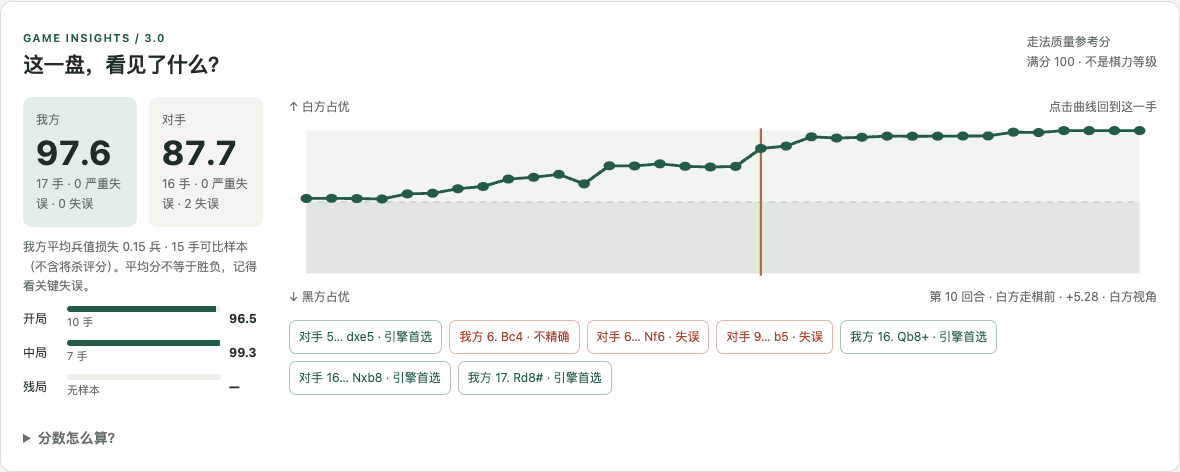
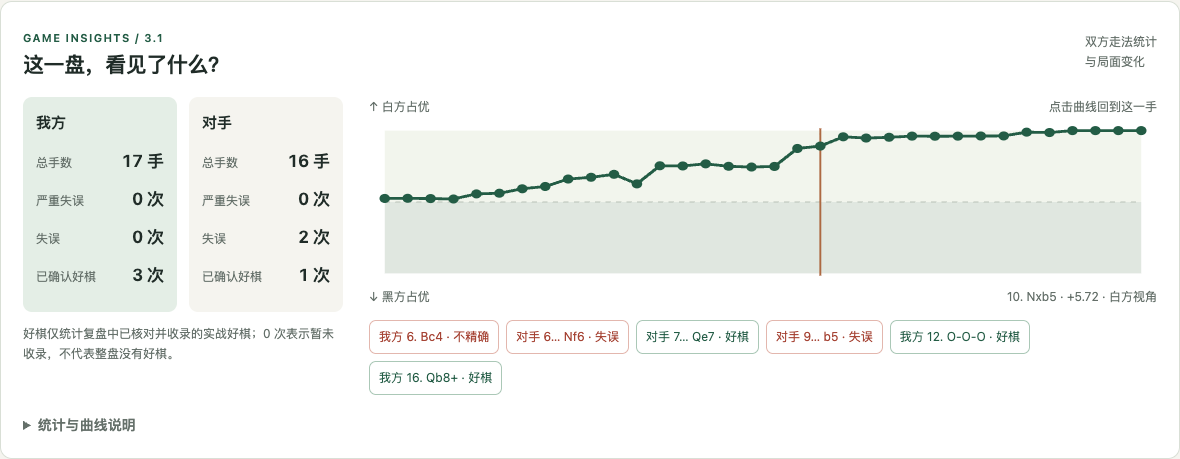
Release 3.1: replace accuracy ratings with verified move counts

diff --git a/plugins/chess-review/skills/chess-review-open/assets/insights.css b/plugins/chess-review/skills/chess-review-open/assets/insights.css
@@ -1,2 +1,2 @@
-.insights{margin:0 0 28px;border:1px solid var(--line);border-radius:12px;background:white;padding:22px}.insights-head{display:flex;align-items:center;justify-content:space-between;gap:16px}.insights h2{margin:0;font-size:21px}.insights .eyebrow{font-size:11px;letter-spacing:.12em;color:var(--green);font-weight:650}.insights small,.insights-note{font-size:12px;color:var(--muted)}.insight-grid{display:grid;grid-template-columns:240px minmax(0,1fr);gap:26px;margin-top:18px}.score-pair{display:grid;grid-template-columns:1fr 1fr;gap:12px}.score-card{background:var(--paper);border-radius:9px;padding:13px}.score-card.ours{background:var(--green-soft)}.score-card span{display:block;font-size:12px;color:var(--muted)}.score-card strong{font-size:34px;line-height:1.3;font-variant-numeric:tabular-nums}.score-card small{display:block}.score-caption{font-size:12px;color:var(--muted);margin:10px 0}.phase-row{display:grid;grid-template-columns:36px minmax(0,1fr) 34px;gap:8px;align-items:center;font-size:12px;margin:8px 0}.phase-track{height:6px;background:#edf0e9;border-radius:4px;overflow:hidden}.phase-track i{display:block;background:var(--green);height:100%}.phase-count{font-size:11px;color:var(--muted)}#eval-chart{width:100%;height:170px;display:block;cursor:crosshair;overflow:visible}.graph-legend{display:flex;justify-content:space-between;font-size:12px;color:var(--muted)}.insight-events{display:flex;gap:7px;flex-wrap:wrap;margin-top:13px}.insight-events button{font-size:12px;padding:5px 9px;min-height:34px}.insight-events .bad{border-color:#e3b7ae;color:var(--red)}.insight-events .good{border-color:#abc8b7;color:var(--green)}.board-with-eval{display:grid;grid-template-columns:18px minmax(0,1fr);gap:9px}.eval-rail{background:#26312c;display:flex;flex-direction:column;overflow:hidden;border:1px solid #69766b;border-radius:4px}.eval-rail.flipped{flex-direction:column-reverse}.eval-rail.unknown{opacity:.35}.eval-black{background:#26312c;transition:height .2s}.eval-white{background:#fffdf5;transition:height .2s}.eval-label{display:flex;justify-content:space-between;gap:10px;align-items:center;font-size:13px;margin:0 0 8px;color:var(--muted)}.eval-label strong{color:var(--ink);font-variant-numeric:tabular-nums}.risk-line{padding:10px 12px;border:1px solid var(--line);background:#fff;border-radius:7px;margin:12px 0 0;font-size:13px}.risk-line p{margin:0 0 8px}.risk-line button{font-size:12px;min-height:32px;padding:4px 8px}.lesson-filter{display:flex;gap:5px;padding:12px 18px 0;flex-wrap:wrap}.lesson-filter button{font-size:12px;padding:4px 9px;min-height:31px}.forecast-panel{padding:20px}.forecast-panel p{color:var(--muted);font-size:14px}.forecast-panel .line-moves button{white-space:normal;text-align:left}.opening-learn{margin:26px 0 0;border:1px solid var(--line);border-radius:10px;background:#fff;padding:16px 20px}.opening-learn summary{font-size:16px}.opening-learn p{font-size:14px;color:var(--muted)}.opening-learn .opening-line{font-family:ui-monospace,monospace;font-size:13px;color:var(--ink);overflow-wrap:anywhere}.opening-actions{display:flex;gap:16px;align-items:center;flex-wrap:wrap}.opening-actions button,.opening-actions a{font-size:13px}.insights details{font-size:12px;color:var(--muted)}.insights details p{margin:8px 0}.insights a{overflow-wrap:anywhere}
-@media(max-width:720px){.insights{padding:16px}.insight-grid{grid-template-columns:1fr;gap:16px}.insights-head{align-items:start}.insights h2{font-size:19px}.score-card strong{font-size:29px}.board-with-eval{grid-template-columns:13px minmax(0,1fr);gap:6px}.phase-row{grid-template-columns:36px minmax(0,1fr) 34px}.insights-head small{max-width:90px;text-align:right}.eval-label{font-size:12px}}
+.insights{margin:0 0 28px;border:1px solid var(--line);border-radius:12px;background:white;padding:22px}.insights-head{display:flex;align-items:center;justify-content:space-between;gap:16px}.insights h2{margin:0;font-size:21px}.insights .eyebrow{font-size:11px;letter-spacing:.12em;color:var(--green);font-weight:650}.insights small,.insights-note{font-size:12px;color:var(--muted)}.insight-grid{display:grid;grid-template-columns:320px minmax(0,1fr);gap:26px;margin-top:18px}.stats-pair{display:grid;grid-template-columns:1fr 1fr;gap:12px}.stats-card{background:var(--paper);border-radius:9px;padding:13px;min-width:0}.stats-card.ours{background:var(--green-soft)}.stats-card h3{font-size:15px;margin:0 0 12px;color:var(--ink)}.stats-card dl{margin:0}.stat-row{display:flex;justify-content:space-between;align-items:baseline;gap:6px;margin:10px 0}.stat-row dt{font-size:12px;color:var(--muted)}.stat-row dd{margin:0;font-size:17px;font-weight:650;white-space:nowrap;font-variant-numeric:tabular-nums}.stats-caption{font-size:12px;color:var(--muted);margin:12px 0 0;line-height:1.65}#eval-chart{width:100%;height:170px;display:block;cursor:crosshair;overflow:visible}.graph-legend{display:flex;justify-content:space-between;font-size:12px;color:var(--muted)}.insight-events{display:flex;gap:7px;flex-wrap:wrap;margin-top:13px}.insight-events button{font-size:12px;padding:5px 9px;min-height:34px}.insight-events .bad{border-color:#e3b7ae;color:var(--red)}.insight-events .good{border-color:#abc8b7;color:var(--green)}.board-with-eval{display:grid;grid-template-columns:18px minmax(0,1fr);gap:9px}.eval-rail{background:#26312c;display:flex;flex-direction:column;overflow:hidden;border:1px solid #69766b;border-radius:4px}.eval-rail.flipped{flex-direction:column-reverse}.eval-rail.unknown{opacity:.35}.eval-black{background:#26312c;transition:height .2s}.eval-white{background:#fffdf5;transition:height .2s}.eval-label{display:flex;justify-content:space-between;gap:10px;align-items:center;font-size:13px;margin:0 0 8px;color:var(--muted)}.eval-label strong{color:var(--ink);font-variant-numeric:tabular-nums}.risk-line{padding:10px 12px;border:1px solid var(--line);background:#fff;border-radius:7px;margin:12px 0 0;font-size:13px}.risk-line p{margin:0 0 8px}.risk-line button{font-size:12px;min-height:32px;padding:4px 8px}.lesson-filter{display:flex;gap:5px;padding:12px 18px 0;flex-wrap:wrap}.lesson-filter button{font-size:12px;padding:4px 9px;min-height:31px}.forecast-panel{padding:20px}.forecast-panel p{color:var(--muted);font-size:14px}.forecast-panel .line-moves button{white-space:normal;text-align:left}.opening-learn{margin:26px 0 0;border:1px solid var(--line);border-radius:10px;background:#fff;padding:16px 20px}.opening-learn summary{font-size:16px}.opening-learn p{font-size:14px;color:var(--muted)}.opening-learn .opening-line{font-family:ui-monospace,monospace;font-size:13px;color:var(--ink);overflow-wrap:anywhere}.opening-actions{display:flex;gap:16px;align-items:center;flex-wrap:wrap}.opening-actions button,.opening-actions a{font-size:13px}.insights details{font-size:12px;color:var(--muted)}.insights details p{margin:8px 0}.insights a{overflow-wrap:anywhere}
+@media(max-width:720px){.insights{padding:16px}.insight-grid{grid-template-columns:1fr;gap:16px}.insights-head{align-items:start}.insights h2{font-size:19px}.stats-card{padding:12px}.board-with-eval{grid-template-columns:13px minmax(0,1fr);gap:6px}.insights-head small{max-width:90px;text-align:right}.eval-label{font-size:12px}}

diff --git a/plugins/chess-review/skills/chess-review-open/assets/insights.js b/plugins/chess-review/skills/chess-review-open/assets/insights.js
@@ -23,16 +23,20 @@
   for(const button of document.querySelectorAll('[data-actor-filter]'))button.onclick=()=>{lessonFilter=button.dataset.actorFilter;document.querySelectorAll('[data-actor-filter]').forEach(b=>b.setAttribute('aria-pressed',String(b===button)));document.querySelectorAll('#lesson-list button').forEach((b,i)=>b.hidden=lessonFilter!=='all'&&DATA.lessons[i].actor!==lessonFilter);const i=DATA.lessons.findIndex(l=>lessonFilter==='all'||l.actor===lessonFilter);if(i>=0)chooseLesson(i)};
   for(const b of document.querySelectorAll('[data-actor-filter]'))if(b.dataset.actorFilter!=='all')b.disabled=!DATA.lessons.some(l=>l.actor===b.dataset.actorFilter);
   if(analytics){
-   $('insights').hidden=false;const ours=analytics.sides[DATA.meta.user_color],other=analytics.sides[DATA.meta.user_color==='white'?'black':'white'];
-   $('score-user').textContent=ours.score??'—';$('score-opponent').textContent=other.score??'—';$('score-user-n').textContent=ours.moves+' 手 · '+ours.blunders+' 严重失误 · '+ours.mistakes+' 失误';$('score-opponent-n').textContent=other.moves+' 手 · '+other.blunders+' 严重失误 · '+other.mistakes+' 失误';
-   $('score-caption').textContent='我方平均兵值损失 '+(ours.acpl===null?'无样本':(ours.acpl/100).toFixed(2)+' 兵')+' · '+ours.cp_samples+' 手可比样本（不含将杀评分）。平均分不等于胜负，记得看关键失误。';
-   const phases=analytics.phases[DATA.meta.user_color];for(const [key,name]of Object.entries({opening:'开局',middlegame:'中局',endgame:'残局'})){const v=phases[key],row=document.createElement('div');row.className='phase-row';row.innerHTML='<span>'+name+'</span><div><div class="phase-track"><i style="width:'+(v.score??0)+'%"></i></div><span class="phase-count">'+(v.moves?v.moves+' 手':'无样本')+'</span></div><strong>'+(v.score??'—')+'</strong>';$('phase-scores').append(row)}
+   $('insights').hidden=false;
+   for(const [id,side] of [['stats-user',DATA.meta.user_color],['stats-opponent',DATA.meta.user_color==='white'?'black':'white']]){
+    const stats=analytics.sides[side],good=new Set(DATA.lessons.filter(l=>l.positive&&l.color===side).map(l=>l.ply)).size;
+    const list=$(id);list.replaceChildren();
+    for(const [key,label,value,unit] of [['moves','总手数',stats.moves,'手'],['blunders','严重失误',stats.blunders,'次'],['mistakes','失误',stats.mistakes,'次'],['good','已确认好棋',good,'次']]){
+     const row=document.createElement('div'),term=document.createElement('dt'),count=document.createElement('dd');row.className='stat-row';term.textContent=label;count.dataset.stat=key;count.textContent=value+' '+unit;row.append(term,count);list.append(row);
+    }
+   }
    const points=analytics.positions.map((e,i)=>[12+576*i/(analytics.positions.length-1),12+126*(1-e.advantage/100)]);
    const svg=$('eval-chart');svg.innerHTML='<rect x="12" y="12" width="576" height="63" fill="#f2f5ed"/><rect x="12" y="75" width="576" height="63" fill="#e0e7e0"/><path d="M12 75H588" stroke="#b7c1b6" stroke-dasharray="4 4"/><path d="'+points.map(([x,y],i)=>(i?'L':'M')+x.toFixed(2)+' '+y.toFixed(2)).join(' ')+'" fill="none" stroke="#235c45" stroke-width="2.5"/><line id="chart-marker" x1="12" x2="12" y1="10" y2="140" stroke="#ad6942" stroke-width="1.5"/>';
    points.forEach(([x,y],i)=>{const dot=document.createElementNS('http://www.w3.org/2000/svg','circle');dot.setAttribute('cx',x);dot.setAttribute('cy',y);dot.setAttribute('r','4');dot.setAttribute('fill','#235c45');dot.setAttribute('tabindex','0');dot.setAttribute('role','button');const name=(DATA.states[i].san||'起始局面')+' · '+evalText(analytics.positions[i]);dot.setAttribute('aria-label',name);const title=document.createElementNS('http://www.w3.org/2000/svg','title');title.textContent=name;dot.append(title);dot.onclick=e=>{e.stopPropagation();jumpToPly(i)};dot.onkeydown=e=>{if(e.key==='Enter'||e.key===' '){e.preventDefault();jumpToPly(i)}};svg.append(dot)});
    svg.onclick=e=>{const rect=svg.getBoundingClientRect();jumpToPly(Math.max(0,Math.min(points.length-1,Math.round(((e.clientX-rect.left)/rect.width*600-12)/576*(points.length-1)))))};
-   const events=[];for(const side of [DATA.meta.user_color,DATA.meta.user_color==='white'?'black':'white']){const rows=analytics.rows.filter(r=>r.side===side);events.push(...rows.filter(r=>r.classification!=='steady').sort((a,b)=>b.loss-a.loss).slice(0,2));events.push(...rows.filter(r=>r.preferred&&(r.check||r.capture)&&r.classification==='steady').slice(-2))}
-   events.sort((a,b)=>a.ply-b.ply);for(const r of events){const b=document.createElement('button');const bad=r.classification!=='steady';b.className=bad?'bad':'good';b.textContent=(r.side===DATA.meta.user_color?'我方 ':'对手 ')+r.move+' · '+(bad?{blunder:'严重失误',mistake:'失误',inaccuracy:'不精确'}[r.classification]:'引擎首选');b.title='参考分 '+r.quality.toFixed(1)+'；点击回放此步';b.onclick=()=>jumpToPly(r.ply+1);$('insight-events').append(b)}
+   const events=[];for(const side of [DATA.meta.user_color,DATA.meta.user_color==='white'?'black':'white']){const rows=analytics.rows.filter(r=>r.side===side);events.push(...rows.filter(r=>r.classification!=='steady').sort((a,b)=>b.loss-a.loss).slice(0,2));events.push(...rows.filter(r=>r.classification==='steady'&&DATA.lessons.some(l=>l.positive&&l.color===side&&l.ply===r.ply)).slice(-2))}
+   events.sort((a,b)=>a.ply-b.ply);for(const r of events){const b=document.createElement('button');const bad=r.classification!=='steady';b.className=bad?'bad':'good';b.textContent=(r.side===DATA.meta.user_color?'我方 ':'对手 ')+r.move+' · '+(bad?{blunder:'严重失误',mistake:'失误',inaccuracy:'不精确'}[r.classification]:'好棋');b.title='点击回放 '+r.move;b.onclick=()=>jumpToPly(r.ply+1);$('insight-events').append(b)}
    $('metric-engine').textContent=(analytics.engine.name||'Stockfish')+' · 每局面 '+analytics.screen_seconds+' 秒初筛，关键步加深 '+analytics.refine_seconds+' 秒';
   }else{$('insights').hidden=false;$('insight-grid').hidden=true;$('insight-empty').hidden=false;$('metric-method').hidden=true}
   if(DATA.opening){const o=DATA.opening;$('opening-learn').hidden=false;$('opening-name').textContent=o.eco+' · '+o.name;$('opening-line').textContent=o.line;$('opening-match').textContent='本盘在 '+(DATA.states[o.ply].san||'对应局面')+' 后匹配到命名开局局面（包含转置识别）。这不表示后续每一步都符合理论。';$('opening-notes').textContent=o.notes||'先回到匹配局面，观察中心兵、轻子发展和王的安全，再看开局资料。';$('opening-jump').onclick=()=>{jumpToPly(o.ply);$('board').scrollIntoView({block:'center',behavior:'smooth'})};$('opening-resource').href=o.resource;$('opening-source').href=o.source;

diff --git a/plugins/chess-review/skills/chess-review-open/assets/review-template.html b/plugins/chess-review/skills/chess-review-open/assets/review-template.html
@@ -23,11 +23,11 @@
 </header>
 <main>
  <section id="insights" class="insights" aria-label="棋局数据总览" hidden>
-  <div class="insights-head"><div><span class="eyebrow">GAME INSIGHTS / 3.0</span><h2>这一盘，看见了什么？</h2></div><small>走法质量参考分<br>满分 100 · 不是棋力等级</small></div>
-  <p id="insight-empty" class="insights-note" hidden>这盘尚未附带匹配的引擎分析，暂不显示分数和曲线。原有教学与回放仍可使用。</p>
-  <div id="insight-grid" class="insight-grid"><div><div class="score-pair"><div class="score-card ours"><span>我方</span><strong id="score-user"></strong><small id="score-user-n"></small></div><div class="score-card"><span>对手</span><strong id="score-opponent"></strong><small id="score-opponent-n"></small></div></div><p id="score-caption" class="score-caption"></p><div id="phase-scores" aria-label="我方分阶段评分"></div></div>
+  <div class="insights-head"><div><span class="eyebrow">GAME INSIGHTS / 3.1</span><h2>这一盘，看见了什么？</h2></div><small>双方走法统计<br>与局面变化</small></div>
+  <p id="insight-empty" class="insights-note" hidden>这盘尚未附带匹配的引擎分析，暂不显示完整走法统计和曲线。原有教学与回放仍可使用。</p>
+  <div id="insight-grid" class="insight-grid"><div><div class="stats-pair"><section class="stats-card ours" aria-label="我方走法统计"><h3>我方</h3><dl id="stats-user"></dl></section><section class="stats-card" aria-label="对手走法统计"><h3>对手</h3><dl id="stats-opponent"></dl></section></div><p class="stats-caption">好棋仅统计复盘中已核对并收录的实战好棋；0 次表示暂未收录，不代表整盘没有好棋。</p></div>
   <div><div class="graph-legend"><span>↑ 白方占优</span><span>点击曲线回到这一手</span></div><svg id="eval-chart" viewBox="0 0 600 150" preserveAspectRatio="none" role="group" aria-label="双方局面评估曲线"></svg><div class="graph-legend"><span>↓ 黑方占优</span><span id="chart-current"></span></div><nav id="insight-events" class="insight-events" aria-label="双方关键事件"></nav></div></div>
-  <details id="metric-method"><summary>分数怎么算？</summary><p>单步先把白方兵值评估 cp 映射为指数：100 / (1 + exp(−0.00368208 × cp))；再计算走棋方前后指数下降 Δ，参考分为 clamp(103.1668 × exp(−0.04354 × Δ) − 3.1669, 0, 100)。下降为零计 100。</p><p>总分和各阶段分数取相应走法的算术平均，包含好棋与失误；单个大失误可能被平均数掩盖。它不是 Chess.com / Lichess 的整局准确率，也不是你真实获胜的概率。参考 <a href="https://lichess.org/page/accuracy" target="_blank" rel="noopener noreferrer">Lichess 单步公式</a>，整局汇总由本插件定义。</p><p>Δ ≥ 20 / 10 / 5 分别标记严重失误 / 失误 / 不精确（本插件阈值）。将杀指数按获胜方取 100、失败方取 0；规则判和取 50。平均兵值损失只统计前后都有 cp 的走法，不把将杀当成巨大兵值。</p><p>阶段为启发式分组：双方非兵子力合计 ≤ 13，或无后且 ≤ 26，计为残局；其余前 10 回合计开局，之后计中局（马象 3、车 5、后 9）。无样本不打分。</p><p id="metric-engine"></p></details>
+  <details id="metric-method"><summary>统计与曲线说明</summary><p>总手数按双方各自实际落子次数计算。严重失误与失误根据走法前后的引擎局面变化分别统计，两类不重复计数；它们是本复盘的分类，不等同于其他平台的分类。大幅占优或落后时，自动分类可能漏掉仍有教学价值的失误，请结合关键复盘查看。</p><p>好棋只计入已核对、明确标记为好棋的实战着法，同一步不重复计数。它不是整盘所有合理走法的数量，也不把普通的引擎首选自动算作好棋。</p><p>曲线和棋盘旁的优劣势条表示白方与黑方的局面变化，不是棋手的准确率、棋力或实际获胜概率。示范分支未经独立分析时显示「未分析」。</p><p id="metric-engine"></p></details>
  </section>
  <div class="workspace">
   <section class="board-column" aria-label="交互棋盘">

diff --git a/plugins/chess-review/skills/chess-review-open/scripts/review_analytics.py b/plugins/chess-review/skills/chess-review-open/scripts/review_analytics.py
@@ -6,9 +6,6 @@ import math
 from pathlib import Path
 from chess_common import chess, label, snapshot
 
-FORMULA_URL = 'https://lichess.org/page/accuracy'
-
-
 def white_evaluation(raw, board, perspective):
     if raw.get('fen') != board.fen():
         raise ValueError('Analysis FEN does not match the game position')
@@ -57,7 +54,7 @@ def phase(board):
 
 def summarize(rows):
     cp_rows = [r['cp_loss'] for r in rows if r['cp_loss'] is not None]
-    return {'moves':len(rows), 'score':round(sum(r['quality'] for r in rows)/len(rows),1) if rows else None,
+    return {'moves':len(rows),
             'acpl':round(sum(cp_rows)/len(cp_rows),1) if cp_rows else None,
             'cp_samples':len(cp_rows), 'blunders':sum(r['classification']=='blunder' for r in rows),
             'mistakes':sum(r['classification']=='mistake' for r in rows),
@@ -91,12 +88,11 @@ def build_analytics(analysis, boards, moves, pgn):
         before, after = positions[i:i+2]
         sign = 1 if boards[i].turn else -1
         loss = max(0., sign*(before['advantage']-after['advantage']))
-        quality = 100. if loss == 0 else max(0.,min(100.,103.1668*math.exp(-.04354*loss)-3.1669))
         cp_loss = max(0.,sign*(before['cp']-after['cp'])) if before['cp'] is not None and after['cp'] is not None else None
         preferred = len(before['forecast'])>1 and before['forecast'][1]['from'] == chess.square_name(move.from_square) and before['forecast'][1]['to'] == chess.square_name(move.to_square) and before['forecast'][1]['fen'] == boards[i+1].fen()
         kind = 'blunder' if loss >= 20 else 'mistake' if loss >= 10 else 'inaccuracy' if loss >= 5 else 'steady'
         rows.append({'ply':i,'move':label(boards[i],move),'side':'white' if boards[i].turn else 'black',
-                     'phase':phase(boards[i]),'loss':round(loss,2),'quality':round(quality,2),
+                     'phase':phase(boards[i]),'loss':round(loss,2),
                      'cp_loss':cp_loss,'classification':kind,'preferred':preferred,
                      'check':boards[i+1].is_check(),'capture':boards[i].is_capture(move)})
     return {'version':1,'engine':analysis.get('engine',{}),'screen_seconds':analysis.get('screen_seconds'),
@@ -104,7 +100,7 @@ def build_analytics(analysis, boards, moves, pgn):
             'sides':{side:summarize([r for r in rows if r['side']==side]) for side in ('white','black')},
             'phases':{side:{key:summarize([r for r in rows if r['side']==side and r['phase']==key])
                             for key in ('opening','middlegame','endgame')} for side in ('white','black')},
-            'formula_url':FORMULA_URL}
+            }
 
 
 def identify_opening(boards):

diff --git a/tests/test_review_analytics.py b/tests/test_review_analytics.py
@@ -28,8 +28,12 @@ class AnalyticsTests(unittest.TestCase):
   b=build_analytics(self.data('black'),self.boards,self.moves,self.text)
   self.assertEqual(a['positions'],b['positions']);self.assertEqual(a['sides'],b['sides'])
   self.assertEqual(a['positions'][-1]['terminal'],'white');self.assertEqual(a['positions'][-1]['advantage'],100)
-  self.assertEqual(a['phases']['white']['endgame']['score'],None)
-  self.assertLess(a['sides']['black']['score'],a['sides']['white']['score'])
+  self.assertEqual(a['phases']['white']['endgame']['moves'],0)
+  self.assertEqual(a['sides']['white']['moves'],4)
+  self.assertEqual(a['sides']['black']['moves'],3)
+  self.assertEqual(a['sides']['white']['mistakes'],0)
+  self.assertEqual(a['sides']['black']['mistakes'],1)
+  self.assertEqual(a['sides']['black']['inaccuracies'],2)
   self.assertLess(a['sides']['white']['cp_samples'],a['sides']['white']['moves'])
  def test_reject_wrong_game_fen_order_and_illegal_pv(self):
   for change in ('hash','fen','order','pv','nan'):
@@ -47,7 +51,7 @@ class AnalyticsTests(unittest.TestCase):
   b=chess.Board('7k/5Q2/6K1/8/8/8/8/8 b - - 0 1')
   e=white_evaluation({'fen':b.fen(),'cp':0,'mate':None,'pv':[]},b,'white')
   self.assertEqual(e['terminal'],'draw');self.assertEqual(e['advantage'],50)
- def test_black_mate_and_score_bounds(self):
+ def test_black_mate_and_no_accuracy_scores(self):
   b=chess.Board()
   for san in ['f3','e5','g4','Qh4#']:b.push_san(san)
   self.assertTrue(b.is_checkmate())
@@ -55,7 +59,11 @@ class AnalyticsTests(unittest.TestCase):
    e=white_evaluation({'fen':b.fen(),'cp':None,'mate':0,'pv':[]},b,pov)
    self.assertEqual(e['terminal'],'black');self.assertEqual(e['advantage'],0)
   d=self.data();a=build_analytics(d,self.boards,self.moves,self.text)
-  self.assertTrue(all(0<=r['quality']<=100 for r in a['rows']))
+  self.assertTrue(all(0<=p['advantage']<=100 for p in a['positions']))
+  self.assertNotIn('formula_url',a)
+  self.assertTrue(all('quality' not in r for r in a['rows']))
+  self.assertTrue(all('score' not in s for s in a['sides'].values()))
+  self.assertTrue(all('score' not in s for phases in a['phases'].values() for s in phases.values()))
   self.assertTrue(all(r['cp_loss'] is None or r['cp_loss']>=0 for r in a['rows']))
  def test_opening_transposition_and_nonstandard_position(self):
   def boards(line):

diff --git a/plugins/chess-review/skills/chess-review-open/references/analytics.md b/plugins/chess-review/skills/chess-review-open/references/analytics.md
@@ -1,8 +1,8 @@
-# 3.0 数据、评分与威胁
+# 3.1 走法统计、局面评估与威胁
 
 ## 输入与教学
 
-运行 `analyze_game.py`，将其输出通过 `build_review.py --analysis analysis.json` 传入。完整棋谱指纹、每一步 UCI、轮次和局面 FEN 必须一致；分析会统一转换成白方视角。保留初筛与加深结果，以更深的结果生成每个局面的数据。无引擎时省略参数，保留教学界面但显示分数不可用，不让代理自行编造数字。
+运行 `analyze_game.py`，将其输出通过 `build_review.py --analysis analysis.json` 传入。完整棋谱指纹、每一步 UCI、轮次和局面 FEN 必须一致；分析会统一转换成白方视角。保留初筛与加深结果，以更深的结果生成每个局面的数据。无引擎时省略参数，保留教学界面，标明完整走法统计和曲线不可用，不编造数字。
 
 `review.json` 的关键步可写 `actor: "user"`（默认）或 `"opponent"`。每盘仍以用户视角确定我方/对手，构建器独立核对每条教学实际轮次。好棋标 `positive: true`。引擎首选不自动等于妙手；解释它解决了什么具体问题，只有明显损失且加深证据支持时才称严重失误。
 
@@ -10,17 +10,17 @@
 
 ## 数字的含义
 
-- 白方 cp 映射为指数 `100 / (1 + exp(-0.00368208 × cp))`。这是视觉映射，不是该使用者真实获胜概率。
-- 取走棋方指数下降量 Δ，负值截为零。单步参考分是 `clamp(103.1668 × exp(-0.04354 × Δ) - 3.1669, 0, 100)`，无下降记 100。
-- 双方总分和阶段分项都取各自走法的算术平均。公式参考 [Lichess 单步公式](https://lichess.org/page/accuracy)，**没有复制 Lichess 的整局汇总算法**，不命名为平台准确率或 Elo。
-- Δ ≥ 20 / 10 / 5 对应本插件的严重失误 / 失误 / 不精确阈值，不声称与其他平台一致。局面已经大幅占优或落后时，映射会饱和；不要据高分断言全盘没有严重问题。
-- 平均兵值损失只统计走法前后均有 cp 的样本。将殺单独显示 M 值，不把内部排序用的极值当成兵值。终局用棋规确认；将死指数由胜方确定，规则判和取 50。
-- 阶段按局面分组：双方非兵子力合计 ≤ 13，或无后且 ≤ 26 为残局；其他局面前 10 回合为开局，之后中局。马象 3、车 5、后 9。这是启发式规则；没有该阶段就显示无样本。
-- 平均数会掩盖决定性失误，所以始终同时展示事件、样本数和棋盘。数据受搜索时长、深度影响；不比较不同设置的微小分差。
+- 不计算或展示任何 accuracy 类总分、阶段分数、单步参考分及其提示。不要生成百分制走法评分。
+- 双方卡片只显示各自实际总手数、严重失误次数、失误次数和已确认好棋次数。
+- 严重失误与失误沿用引擎优势指数的下降阈值，分别为 Δ ≥ 20 与 10 ≤ Δ < 20；5 ≤ Δ < 10 为不精确，两类失误不重复计数。这是本工具分类，不声称与其他平台一致。
+- 好棋仅统计已核对并标记 `positive: true` 的实战 lesson，按真实执子方与 ply 去重。0 次表示暂未收录，不表示全盘没有好棋；普通引擎首选不能自动当作好棋。
+- 曲线仍把白方 cp 映射为指数 `100 / (1 + exp(-0.00368208 × cp))`。这是局面可视化，不是准确率或真实获胜概率。大幅优劣势时可能饱和，失误计数不能替代人工解释。
+- 将杀单独显示 M 值，不把内部排序极值当成兵值。规则判和取 50，将死指数由胜方确定。
+- 保留真实局面 FEN、深度、主变化、棋谱指纹与参考分析设置；不修改棋谱、教学分支或笔记键。
 
 ## 曲线、威胁与开局
 
-曲线点击后进入实际回放。优劣势条查询当前完整 FEN 对应的分析；翻转棋盘只改变位置，评分符号始终从白方看。未独立分析的试走或示范分支显示「未分析」，不沿用上一个局面的值。
+曲线点击后进入实际回放。优劣势条查询当前完整 FEN 对应的分析；翻转棋盘只改变位置，局面评估符号始终从白方看。未独立分析的试走或示范分支显示「未分析」，不沿用上一个局面的值。
 
 「引擎后续」展示最多 10 个半回合的合法主变化，单独标为引擎示范，标出将军、吃子、实际将死。M 信号是引擎搜索结果；只有走到棋规确认的终点才显示已将死。主变化中出现的将军不是必然威胁，不称作对方唯一回应。需要说明防守是否被迫时，另行检查所有合法应对或引擎候选。
 

diff --git a/README.md b/README.md
@@ -1,18 +1,19 @@
-# Chess Review Open 3.0 · 国际象棋互动复盘技能
+# Chess Review Open 3.1 · 国际象棋互动复盘技能
 
 **[English version →](https://github.com/kevina0817-ctrl/chess-review-skill-en)**
 
-## Purpose
+## 用途
 
 把你刚下完的一盘棋（PGN 棋谱）交给 AI 编程助手，几分钟后得到一个可以直接在浏览器里打开的**互动复盘网页**：哪一步走错了、当时应该怎么走、自己在棋盘上再试一次。中文讲解，离线可用，不需要注册任何网站。
 
 适用于 Codex、Claude Code、Kimi 等支持 Agent Skills（`SKILL.md`）格式的 AI 助手。
 
-## Changelog
+## 更新记录
 
 | 版本 | 新增功能 | 你可以做什么 |
 |---|---|---|
-| 3.0 更新 | 双方复盘与数据 | 对手好棋与失误、走法质量参考分、阶段分项、可点击的局面曲线与优劣势条。 |
+| 3.1 更新 | 双方走法统计 | 显示双方总手数、严重失误、失误和已确认好棋次数；移除全部准确率式总分、阶段分和单步评分，保留局面曲线与优劣势条。 |
+| 3.0 更新 | 双方复盘与数据 | 学习对手好棋与失误，点击局面曲线回放关键一步。 |
 | 3.0 更新 | 威胁推演 | 从关键局面回放引擎建议后续，理解将军、吃子和将杀。 |
 | 3.0 更新 | 开局识别与学习 | 根据本盘实际局面识别开局，显示名称与 ECO 编号，并提供开局学习链接。 |
 | 2.0 更新 | Chess.com 自动取谱 | 告诉助手用户名，以后直接说「复盘最新一盘」，无需复制粘贴或提供密码。其他平台仍支持 PGN。 |
@@ -43,13 +44,13 @@ Chess Review plugin 包含两个 skill：**`chess-review-open`** 负责单盘复
 
 先看一眼完整复盘：数据曲线、互动棋盘和关键步讲解，都在同一页里。
 
-![复盘整体展示：双方分数、局面曲线、棋盘和关键步讲解](docs/screenshots/review-overview.png)
+![复盘整体展示：双方走法统计、局面曲线、棋盘和关键步讲解](docs/screenshots/review-overview.png)
 
 *公开历史教学示例：1858 年歌剧院棋局。*
 
 ### 一、复盘
 
-看懂这盘棋，学习自己和对手的好棋与失误，并在棋盘上试走。结合分数、潜在威胁和开局计划，理解每个关键决定。
+看懂这盘棋，学习自己和对手的好棋与失误，并在棋盘上试走。结合走法统计、潜在威胁和开局计划，理解每个关键决定。
 
 <details>
 <summary><strong>展开复盘详情与截图</strong></summary>
@@ -57,13 +58,15 @@ Chess Review plugin 包含两个 skill：**`chess-review-open`** 负责单盘复
 点击下面的小节，查看具体功能。
 
 <details>
-<summary><strong>双方好坏棋、分数与局面曲线</strong></summary>
+<summary><strong>双方走法统计与局面曲线</strong></summary>
 
 **双方一起看，数据跟着棋盘走。** 查看我方和对手的关键步、好棋与失误；点击评估曲线跳回实战，优劣势条随当前局面变化。
 
-**分数有依据。** 展示双方走法质量参考分、我方开局 / 中局 / 残局分项及样本数。它不是棋力等级或其他平台的整局准确率，详细算法可在页面展开。
+**直接看每类走法有多少次。** 我方和对手分别显示总手数、严重失误、失误和已确认好棋次数。严重失误与失误互不重复；好棋仅计算复盘中已核对、已收录的实战着法，0 次表示暂未收录，不表示整盘没有好棋。
 
-![3.0：双方参考分、阶段分项与可点击曲线](docs/screenshots/v3-insights.png)
+不再展示准确率式总分、阶段分或单步评分。局面曲线和优劣势条继续保留，用来观察白方与黑方的局面变化，不代表实际获胜概率。分类与曲线说明可在页面展开。
+
+![3.1：双方总手数、严重失误、失误、好棋次数与可点击曲线](docs/screenshots/v3-insights.png)
 
 </details>
 
@@ -228,7 +231,7 @@ plugins/chess-review/
     chess-common-leaks/   # 跨局漏洞分析与增量更新
 ```
 
-插件安装方式依所用助手而定。3.0 功能与验收见 [版本说明](docs/3.0-requirements.md)。详见 [设计说明](docs/2.0-design.md) 和 [运行说明](plugins/chess-review/skills/chess-review-open/references/workflow.md)。
+插件安装方式依所用助手而定。3.1 功能与验收见 [版本说明](docs/3.1-requirements.md)。详见 [设计说明](docs/2.0-design.md) 和 [运行说明](plugins/chess-review/skills/chess-review-open/references/workflow.md)。
 
 ## 许可证
 

diff --git a/docs/3.0-requirements.md b/docs/3.0-requirements.md
@@ -1,38 +1,3 @@
-# 3.0 功能与验收
+# 版本说明
 
-目标：保留关键步教学的简洁页面，让使用者既看懂原因，也能通过数据、对手走法和开局知识学习。
-
-| 用户反馈 | 3.0 交付 | 验收 |
-|---|---|---|
-| 想看对手的好棋与 blunder | 双方关键步、按我方/对手筛选；可代对手试走 | 每条标明执子方；不把对手失误算成自己的能力 |
-| 喜欢数据、graph、总分 | 总览分数、双方对比、开局/中局/残局分项、评估曲线 | 从引擎数据算；展示样本数；没有样本不打分 |
-| 黑白优劣势条 | 棋盘旁显示当前局面评估，随回放更新 | 正负固定白方视角；翻转棋盘不改符号；将杀与兵值分开 |
-| 能给对手制造什么威胁 | 可回放引擎建议后续，标出将军、吃子和将死 | 与实际棋谱区分；建议分支未知评估显示未分析 |
-| 提前理解危险 | 当前被将军、将杀信号、引擎主变化中的风险 | 不把一条合法示范说成对手必然会走或强制将杀证明 |
-| 从实战学开局与阵型 | 离线开局库匹配实际局面，跳回对应步骤；学习链接和本盘计划 | 支持转置；不凭 PGN 标签或外形乱贴开局名；链接不内嵌视频、不自动联网 |
-
-## 评分口径
-
-第一版展示「走法质量参考分」，不是等级分、考试成绩、作弊判断，也不冒充 GTOW、Chess.com 或 Lichess 的整局准确率。单步映射参考 Lichess 公开公式，本插件采用各步算术平均；同时给出失误数、平均兵值损失、样本数量，解释单个大失误可能被平均数掩盖。
-
-分项按开局/中局/残局划分，明确启发式分段规则。不存在的阶段显示「无样本」。暂不凭空给「创造力」「战术天赋」打分。当前不提供 GTOW 自定义维度或外部算分服务；后续扩展需要明确可核对的指标与接口。
-
-## 交互与边界
-
-- 总览用短数字卡片与一张可点击曲线；详细方法、开局学习折叠展示。
-- 对手事件与威胁解释共用现有棋盘，避免再堆大量页面。
-- 「实时」指跟随所回放局面更新的预计算评估，不在网页运行引擎，不辅助进行中的对局。
-- 无引擎数据时保留原复盘，数字显示不可用；只对完全匹配的棋谱和局面展示分析。
-- 输出仍是使用者本地 HTML/PGN，无自动发布；与 2.0 页面及笔记键兼容。
-- 不接入外部算分服务，不新增后台任务；插件发布不改变用户复盘默认只输出本地文件的约定。
-
-## 本地验收记录（2026-09-24）
-
-以上六项已实现于 3.0。使用公开的 1858 年歌剧院棋局进行真实 Stockfish 分析，分别生成白方、黑方预览；虚构教学棋局验证无分析数据的兼容模式。
-
-- 20 项 Python 测试通过，覆盖自动取谱、去重、跨局门槛、对手证据隔离、评分视角、终局、开局转置和输入一致性。
-- 三种预览通过浏览器检查：曲线跳转、翻转棋盘、建议分支未分析状态、将杀回放、双方筛选及离线无外部请求。
-- 原有执黑试走、笔记、PGN 下载和整盘回放检查通过；检查了桌面与 390 / 320 像素窄屏。
-- 两个 skill 与 plugin 清单验证通过；README 已补 3.0 截图。发布包只包含通用脚本、模板、文档、测试与教学示例。
-
-不在本版范围内：GTOW 自定义维度、外部算分服务，以及仅凭得分上涨就自动认定某个漏洞已修复。
+当前功能与验收标准已更新至 [3.1](3.1-requirements.md)。3.0 的准确率式评分已移除，不再作为当前功能。

diff --git a/docs/3.1-requirements.md b/docs/3.1-requirements.md
@@ -1,0 +1,19 @@
+# 3.1 功能与验收
+
+双方卡片显示各自总手数、严重失误、失误和已确认好棋次数。取消准确率式总分、阶段分、单步评分及提示，避免平均数掩盖严重失误。
+
+- 严重失误与失误互不重复。好棋只统计已核对并收录的 positive 实战 lesson，按真实执子方和 ply 去重；0 次表示暂未收录。
+- 保留可点击的局面曲线和棋盘旁优劣势条，始终使用白方视角；翻转只改变位置。曲线不是准确率或真实胜率。
+- 双方关键步、试走、引擎后续、将军与将死标记、开局识别和学习链接继续可用。
+- 缺少匹配引擎数据时，完整统计和曲线明确不可用。未经独立分析的试走或建议分支显示未分析。
+- 输出仍是本地单文件 HTML/PGN，保留笔记键、离线使用、档案与已开启的跨局增量流程。
+
+## 验收方法
+
+运行 `python -m unittest discover -s tests` 检查分析视角、计数、评分字段移除、终局、输入一致性、取谱和跨局规则。按运行说明用 `check_insights.cjs` 检查公开歌剧院棋局的白方、黑方和无引擎版本，验证曲线跳转、双方计数、示范变化、未知评估、离线行为与 390 / 320 像素布局；用 `check_review.cjs` 检查试走、笔记和 PGN 下载。
+
+README 截图只使用公开历史棋局与虚构教学示例。默认不发布使用者棋谱；此次插件源码发布不改变该约定。统计口径详见 [分析说明](../plugins/chess-review/skills/chess-review-open/references/analytics.md)。
+
+## 本次验证记录
+
+2026-09-29：20 项 Python 测试通过；执白、执黑、无引擎三种页面的统计与曲线浏览器检查通过；原有试走、笔记、PGN 下载与回放检查通过。桌面和 390 / 320 像素布局均通过，页面未自动发起外部请求。README 的总览、统计、威胁、开局和档案截图已从新版公开示例重新生成。

diff --git a/plugins/chess-review/skills/chess-common-leaks/SKILL.md b/plugins/chess-review/skills/chess-common-leaks/SKILL.md
@@ -27,7 +27,7 @@ python "$REVIEW_SKILL_DIR/scripts/plan_common_leaks.py" chess-reviews --user CON
 
 读取 [完整格式与校验流程](../chess-review-open/references/common-leaks.md)。按 `plan.selected` 逐盘检查，全部记录 assessment；同类问题加入稳定 `group_id`，不同机制可新建分类。某类至少出现在两盘不同真实对局才叫“多盘复现”；单例标“新发现”。没有可信问题时记录 `none`，不得制造漏洞以凑数。
 
-3.0 的单盘页包含双方关键步。只使用用户本人走棋前的局面作为漏洞或进步证据；`actor: opponent` 的好棋或失误不能算成用户的表现，引擎示范也不是已发生的进步。参考分变化只是辅助指标，不能单凭平均分上涨判断某类漏洞已修复。
+3.0 的单盘页包含双方关键步。只使用用户本人走棋前的局面作为漏洞或进步证据；`actor: opponent` 的好棋或失误不能算成用户的表现，引擎示范也不是已发生的进步。不能单凭失误次数下降或好棋次数增加判断某类漏洞已修复；需要可比实战机会的证据。
 
 以动画对比展示：同一起点的真实走法、建议走法、结果和一个训练动作。常见漏洞是默认标签，真实好棋与有证据的进步放在独立“进步记录”标签。没有相近机会不能断言已修复；成功、反例与样本范围都保留。
 
